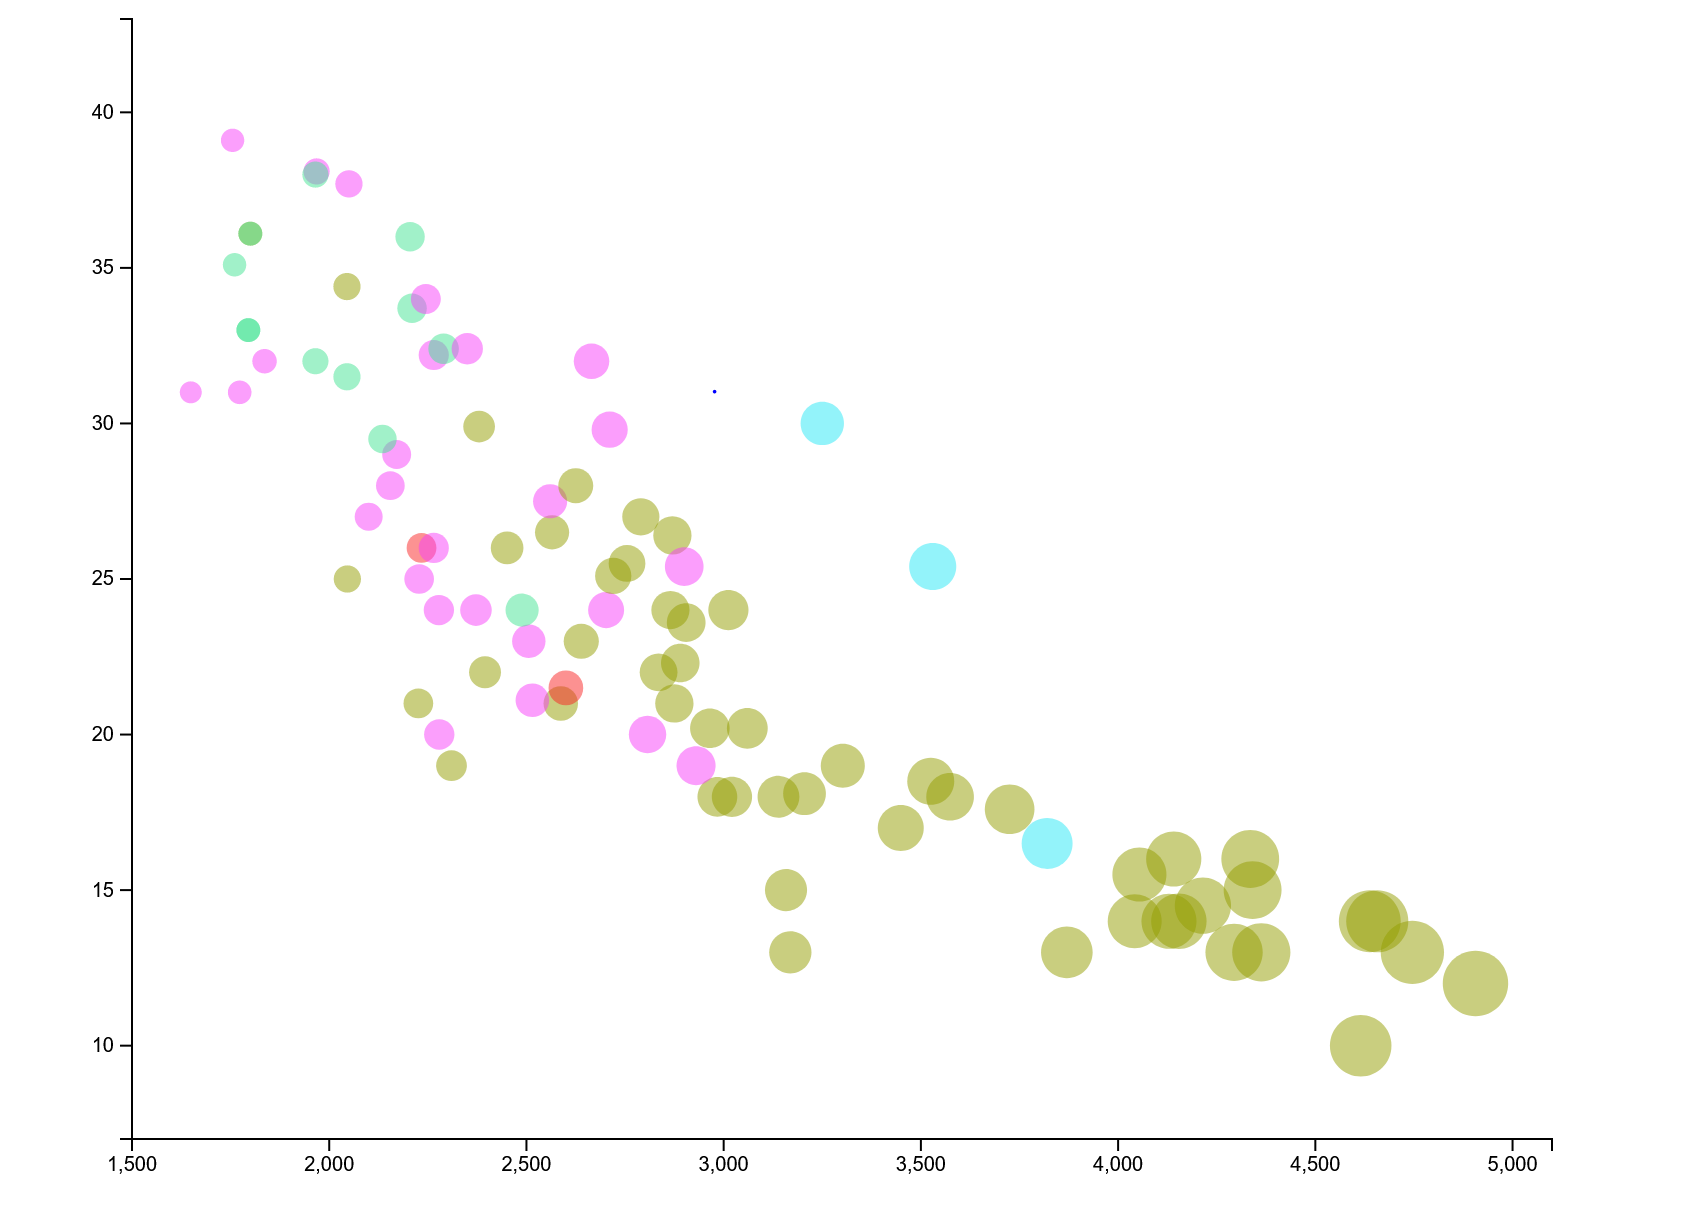
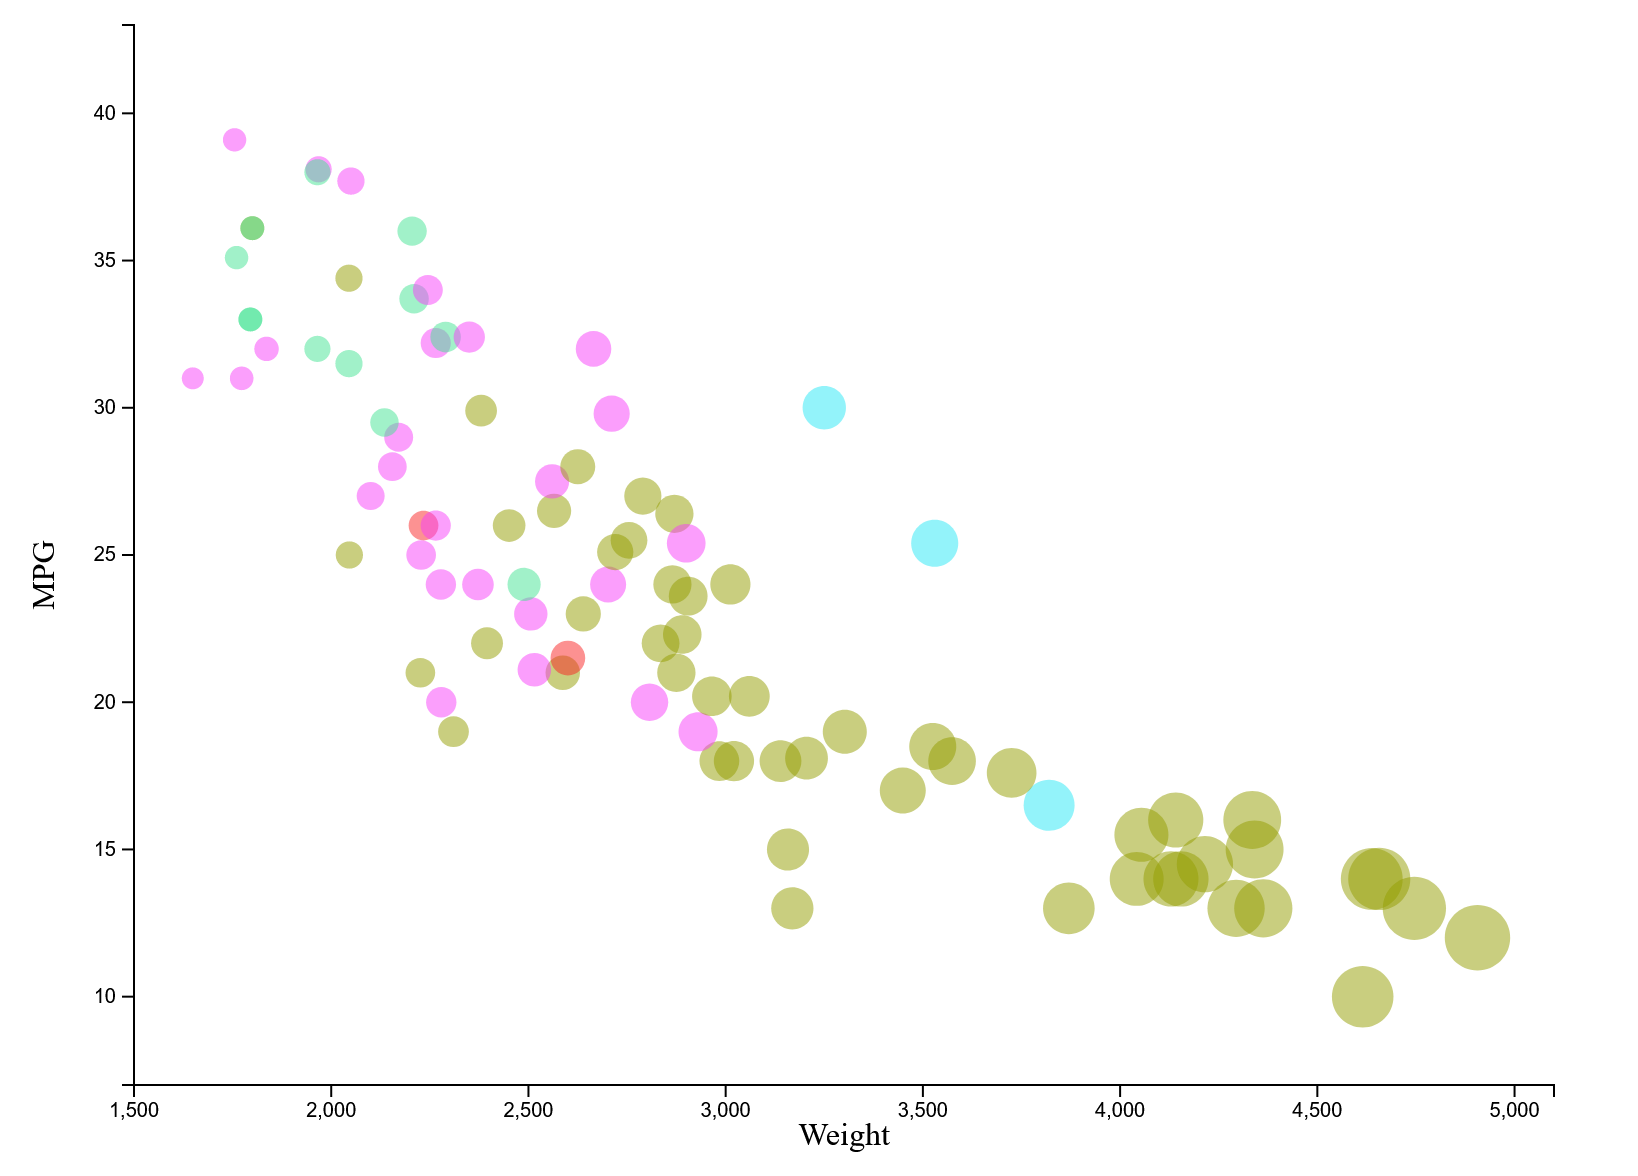
threejs fullscreen graph

diff --git a/graphs/threejs/src/script.js b/graphs/threejs/src/script.js
@@ -77,10 +77,32 @@ const scene = new THREE.Scene()
 /**
  * Sizes
  */
- const sizes = {
-    width: 800,
-    height: 600
+
+const margins = {
+    x: window.innerWidth * .2,
+    y: window.innerHeight * .2
 }
+
+ const sizes = {
+    width: window.innerWidth,
+    height: window.innerHeight
+}
+
+window.addEventListener('resize', () => {
+    // Update sizes
+    sizes.width = window.innerWidth
+    sizes.height = window.innerHeight
+
+    margins.x = window.innerWidth * .2,
+    margins.y = window.innerHeight * .2
+
+    // Update Camera
+    camera.aspect = sizes.width / sizes.height
+    camera.updateProjectionMatrix()
+
+    // Update renderer
+    renderer.setSize(sizes.width, sizes.height)
+})
 
 /**
  * Axis Information
@@ -109,12 +131,12 @@ const scene = new THREE.Scene()
 
  const getHorizontalCord = (weight) => 
  {
-    return getCord(weight, horizontalAxis, sizes.width)
+    return getCord(weight, horizontalAxis, sizes.width - margins.x)
  }
 
  const getVerticleCord = (mpg) => 
  {
-    return getCord(mpg, verticleAxis, sizes.height)
+    return getCord(mpg, verticleAxis, sizes.height - margins.y)
 
  }
 
@@ -201,26 +223,26 @@ fontLoader.load(
             {
                 const text = fastTextCreator("|\n" + majorTick.toString())
                 text.position.x = getHorizontalCord(majorTick)
-                text.position.y = sizes.height / -2 - 50
+                text.position.y = sizes.height / -2 + margins.y / 2
                 scene.add(text)
             })
         
         verticleAxis.majorTicks.forEach(majorTick =>
             {
                 const text = fastTextCreator(majorTick.toString()+ "-")
-                text.position.x = sizes.width / -2 - 50
+                text.position.x = sizes.width / -2 + margins.x /3
                 text.position.y = getVerticleCord(majorTick)
                 scene.add(text)
             })
 
         const mpgLabel = fastTextCreator("M\nP\nG")
-        mpgLabel.position.x = sizes.width / -2 - 100
+        mpgLabel.position.x = sizes.width / -2 + margins.x / 4
         mpgLabel.position.y = 0
         scene.add(mpgLabel)
 
         const weightLabel = fastTextCreator("Weight")
         weightLabel.position.x = 0
-        weightLabel.position.y = sizes.height/-2 - 110
+        weightLabel.position.y = sizes.height/-2 + margins.y /5
         scene.add(weightLabel)
     }
 )

diff --git a/README.md b/README.md
@@ -12,3 +12,7 @@ Website: https://travisthomp.github.io/a2-DataVis-5Ways/graphs/d3/dist/index.htm
 # Google Sheets
 ![D3](images/googlesheets.PNG)
 
+# Flourish
+![Floruish](images/flourish.PNG)
+
+Code on flourish: https://public.flourish.studio/visualisation/8550400/
